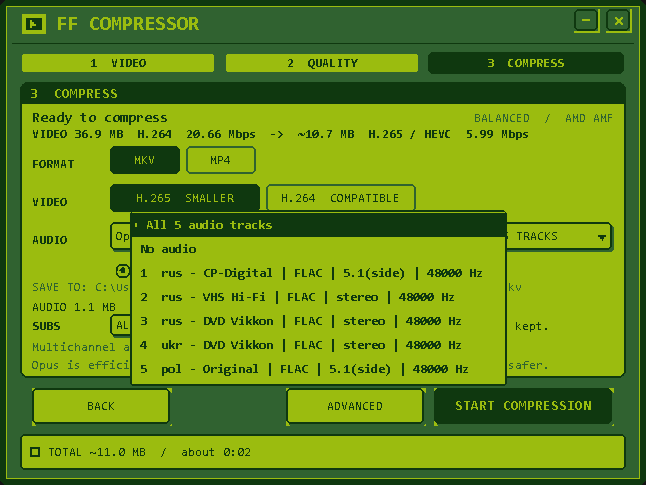
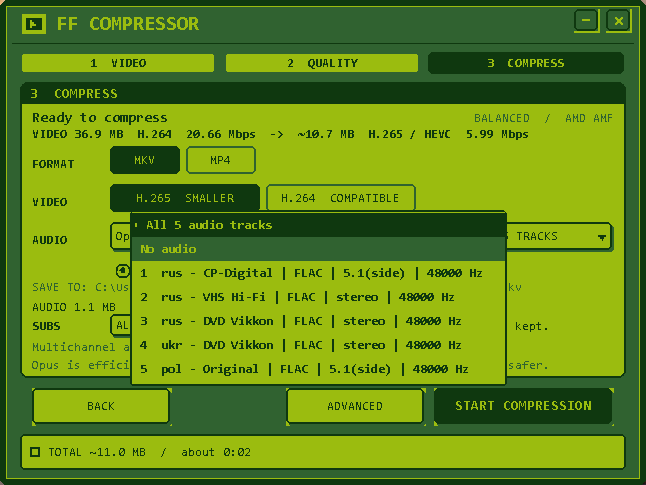
feat: add CPU/GPU encoder selector to quality presets

Changed region(s): [[0.1858, 0.4639, 0.805, 0.5567], [0.9907, 0.0, 1.0, 0.0309]]

diff --git a/src/ui.c b/src/ui.c
@@ -200,6 +200,11 @@ static int g_adv_enc_count = 0;
 static wchar_t g_adv_q_items[7][64];
 static int g_quality_show_details = 0;
 static int g_quality_deep = 0;
+static int g_quality_encoder = -1;
+static wchar_t g_quality_enc_items[HW_ENC_COUNT + 1][64];
+static int g_quality_enc_map[HW_ENC_COUNT + 1];
+static int g_quality_enc_count = 0;
+static RECT g_rc_q_encoder;
 static int g_custom_est_testing = 0;
 static int g_custom_est_ready = 0;
 static int g_custom_est_gen = 0;
@@ -1397,18 +1402,14 @@ static void draw_quality(HDC hdc)
                     DT_LEFT | DT_VCENTER | DT_SINGLELINE | DT_END_ELLIPSIS | DT_NOPREFIX);
             draw_chip(hdc, &g_rc_q_custom, text(STR_QUALITY_CUSTOM));
 
-            SetRect(&sr, S(32), S(306), S(490), S(322));
-            _snwprintf(buf, 512, text(STR_QUALITY_ENCODER_FMT), hw_encoder_name(enc));
-            if (g_est.used_fallback) {
-                wcscat(buf, L"  ");
-                wcscat(buf, text(STR_QUALITY_FALLBACK));
-            }
+            SetRect(&g_rc_q_encoder, S(32), S(306), S(390), S(326));
+            _snwprintf(buf, 512, text(STR_QUALITY_ENCODER_PICK_FMT),
+                       hw_encoder_name(enc));
             buf[511] = L'\0';
-            gb_text(hdc, g_fontSmall, GB_DARKEST, &sr, buf,
-                    DT_LEFT | DT_VCENTER | DT_SINGLELINE | DT_END_ELLIPSIS | DT_NOPREFIX);
+            draw_chip(hdc, &g_rc_q_encoder, buf);
             draw_chip(hdc, &g_rc_q_details, text(STR_QUALITY_DETAILS));
 
-            SetRect(&sr, S(32), S(322), S(614), S(340));
+            SetRect(&sr, S(32), S(326), S(614), S(342));
             if (sel && sel->available && sel->video_bps > 0.0 && src_video_bps > 0.0) {
                 wchar_t ssrc[64], sdst[64], brs[64], brd[64];
                 util_format_bytes((long long)src_video_bytes, ssrc, 64);
@@ -1422,7 +1423,7 @@ static void draw_quality(HDC hdc)
                 gb_text(hdc, g_fontSmall, GB_DARKEST, &sr, buf,
                         DT_LEFT | DT_VCENTER | DT_SINGLELINE | DT_END_ELLIPSIS | DT_NOPREFIX);
             }
-            SetRect(&sr, S(32), S(342), S(614), S(358));
+            SetRect(&sr, S(32), S(344), S(614), S(358));
             gb_text(hdc, g_fontSmall, GB_DARK, &sr, text(STR_QUALITY_COMPAT),
                     DT_LEFT | DT_VCENTER | DT_SINGLELINE | DT_END_ELLIPSIS | DT_NOPREFIX);
             SetRect(&sr, S(32), S(360), S(614), S(376));
@@ -2853,6 +2854,7 @@ typedef struct {
     HwInfo hw;
     int profile;
     int deep;
+    int encoder_override;
 } EstimateJob;
 
 static void quality_progress_cb(const EstimateProgress *p, void *user)
@@ -2880,7 +2882,8 @@ static DWORD WINAPI quality_thread_proc(LPVOID param)
     }
     msg->gen = job->gen;
     result = estimate_run(&job->src, &job->hw, job->profile, job->deep,
-                          &msg->est, quality_progress_cb, job, &g_est_cancel);
+                          job->encoder_override, &msg->est,
+                          quality_progress_cb, job, &g_est_cancel);
     msg->result = result;
     if (!PostMessageW(job->hwnd, WM_APP_EST_DONE, 0, (LPARAM)msg)) free(msg);
     free(job);
@@ -2911,7 +2914,8 @@ static void quality_ui_start(HWND hWnd, int force)
     g_est_start_tick = GetTickCount64();
     memset(&g_est, 0, sizeof(g_est));
     memset(&g_est_progress, 0, sizeof(g_est_progress));
-    g_est.encoder = estimate_choose_encoder(&g_info, &g_hw_info);
+    g_est.encoder = (g_quality_encoder >= 0) ? g_quality_encoder
+                                             : estimate_choose_encoder(&g_info, &g_hw_info);
     g_est_seconds = (g_quality_last_seconds > 0.0)
         ? (int)(g_quality_last_seconds + 0.5)
         : estimate_demo_seconds(&g_info, &g_hw_info, quality_current_profile());
@@ -2935,6 +2939,7 @@ static void quality_ui_start(HWND hWnd, int force)
     job->hw = g_hw_info;
     job->profile = quality_current_profile();
     job->deep = g_quality_deep;
+    job->encoder_override = g_quality_encoder;
     thread = CreateThread(NULL, 0, quality_thread_proc, job, 0, NULL);
     if (thread) {
         CloseHandle(thread);
@@ -2951,6 +2956,72 @@ static void quality_ui_start_deep(HWND hWnd)
     if (!g_has_info || g_quality_testing) return;
     g_quality_deep = 1;
     quality_ui_start(hWnd, 1);
+}
+
+static void quality_ui_refresh_encoder_items(void)
+{
+    int i;
+    g_quality_enc_count = 0;
+    g_quality_enc_map[g_quality_enc_count] = -1;
+    wcsncpy(g_quality_enc_items[g_quality_enc_count], text(STR_QUALITY_ENC_AUTO), 63);
+    g_quality_enc_items[g_quality_enc_count][63] = L'\0';
+    g_quality_enc_count++;
+
+    g_quality_enc_map[g_quality_enc_count] = HW_ENC_X265;
+    wcsncpy(g_quality_enc_items[g_quality_enc_count], text(STR_QUALITY_ENC_CPU), 63);
+    g_quality_enc_items[g_quality_enc_count][63] = L'\0';
+    g_quality_enc_count++;
+
+    for (i = 0; i < HW_ENC_COUNT && g_quality_enc_count < HW_ENC_COUNT + 1; i++) {
+        if (i == HW_ENC_X265) continue;
+        if (!g_hw_info.enc_ok8[i] && !g_hw_info.enc_ok10[i]) continue;
+        g_quality_enc_map[g_quality_enc_count] = i;
+        _snwprintf(g_quality_enc_items[g_quality_enc_count], 64,
+                   text(STR_QUALITY_ENC_GPU_FMT), hw_encoder_name(i));
+        g_quality_enc_items[g_quality_enc_count][63] = L'\0';
+        g_quality_enc_count++;
+    }
+    {
+        int found = 0;
+        for (i = 0; i < g_quality_enc_count; i++) {
+            if (g_quality_enc_map[i] == g_quality_encoder) { found = 1; break; }
+        }
+        if (!found) {
+            g_quality_encoder = -1;
+            if (g_enc_options_ready) g_enc_opt.encoder_override = -1;
+        }
+    }
+}
+
+static void quality_ui_encoder_picked(int index, void *user)
+{
+    (void)user;
+    if (index < 0 || index >= g_quality_enc_count) return;
+    g_quality_encoder = g_quality_enc_map[index];
+    if (!g_enc_options_ready) {
+        encode_options_defaults(&g_enc_opt, &g_info);
+        g_enc_options_ready = 1;
+    }
+    g_enc_opt.encoder_override = g_quality_encoder;
+    quality_ui_start(g_hWnd, 1);
+    update_controls_visibility();
+    InvalidateRect(g_hWnd, NULL, FALSE);
+}
+
+static void quality_ui_open_encoder_dropdown(HWND hWnd)
+{
+    const wchar_t *ptrs[HW_ENC_COUNT + 1];
+    RECT anchor;
+    int i, selected = 0;
+
+    quality_ui_refresh_encoder_items();
+    for (i = 0; i < g_quality_enc_count; i++) {
+        ptrs[i] = g_quality_enc_items[i];
+        if (g_quality_enc_map[i] == g_quality_encoder) selected = i;
+    }
+    anchor = g_rc_q_encoder;
+    gb_dropdown_open(hWnd, &anchor, ptrs, g_quality_enc_count, selected,
+                     quality_ui_encoder_picked, NULL);
 }
 
 static void quality_ui_on_done(HWND hWnd, EstimateDoneMsg *msg)
@@ -3049,6 +3120,10 @@ static void quality_select_at(HWND hWnd, int x, int y)
                 return;
             }
         } else {
+            if (PtInRect(&g_rc_q_encoder, pt)) {
+                quality_ui_open_encoder_dropdown(hWnd);
+                return;
+            }
             if (PtInRect(&g_rc_q_custom, pt)) {
                 encode_ui_open_advanced(hWnd);
                 return;
@@ -3066,7 +3141,7 @@ static void quality_select_at(HWND hWnd, int x, int y)
                 int level = g_est.levels_used[i];
                 g_quality_selected = level;
                 g_enc_opt.crf_override = 0;
-                g_enc_opt.encoder_override = -1;
+                g_enc_opt.encoder_override = g_quality_encoder;
                 g_custom_est_ready = 0;
                 quality_load_preview();
                 InvalidateRect(hWnd, NULL, FALSE);
@@ -3080,7 +3155,7 @@ static void quality_select_at(HWND hWnd, int x, int y)
             int level = g_est.levels_used[i];
             g_quality_selected = level;
             g_enc_opt.crf_override = 0;
-            g_enc_opt.encoder_override = -1;
+            g_enc_opt.encoder_override = g_quality_encoder;
             g_custom_est_ready = 0;
             InvalidateRect(hWnd, NULL, FALSE);
             return;
@@ -3099,6 +3174,7 @@ static void quality_ui_reset(void)
     memset(&g_est, 0, sizeof(g_est));
     memset(&g_est_progress, 0, sizeof(g_est_progress));
     g_quality_selected = QUALITY_BALANCED;
+    g_quality_encoder = -1;
     encode_ui_reset();
 }
 

diff --git a/src/estimate.c b/src/estimate.c
@@ -404,7 +404,8 @@ static void sample_positions(double duration, int clips, double clip_sec, double
 }
 
 EstimateResult estimate_run(const SourceInfo *src, const HwInfo *hw,
-                            int profile_override, int deep, EstimateSet *out,
+                            int profile_override, int deep, int forced_encoder,
+                            EstimateSet *out,
                             EstimateProgressCallback cb, void *user,
                             volatile int *cancel)
 {
@@ -437,7 +438,8 @@ EstimateResult estimate_run(const SourceInfo *src, const HwInfo *hw,
     out->clip_seconds = clip_sec;
     for (li = 0; li < level_count; li++) out->levels_used[li] = levels[li];
 
-    encoder = estimate_choose_encoder(src, hw);
+    encoder = (forced_encoder >= 0) ? forced_encoder
+                                    : estimate_choose_encoder(src, hw);
     out->encoder = encoder;
     make_temp_dir(tempdir, UTIL_PATH_MAX);
     sample_positions(src->duration, clips, clip_sec, positions);

diff --git a/src/strings.c b/src/strings.c
@@ -87,6 +87,10 @@ static const wchar_t *g_text[STR_COUNT] = {
     [STR_QUALITY_NO_ESTIMATE]   = L"No estimate yet.",
     [STR_QUALITY_SELECTED]      = L"SELECTED",
     [STR_QUALITY_ENCODER_FMT]   = L"Encoder: %ls",
+    [STR_QUALITY_ENCODER_PICK_FMT] = L"ENCODER: %ls  v",
+    [STR_QUALITY_ENC_AUTO]      = L"Auto (recommended)",
+    [STR_QUALITY_ENC_CPU]       = L"CPU x265 (software)",
+    [STR_QUALITY_ENC_GPU_FMT]   = L"%ls (GPU)",
     [STR_QUALITY_AUDIO_NOTE]    = L"Video-only sample estimate. Long/grainy films vary; use DEEP ANALYZE.",
     [STR_QUALITY_CANCELED]      = L"Test cancelled.",
     [STR_QUALITY_M5_NOTE]       = L"Full compression arrives in M5.",

diff --git a/src/estimate.h b/src/estimate.h
@@ -72,7 +72,8 @@ int estimate_demo_seconds(const SourceInfo *src, const HwInfo *hw, int profile_o
 int estimate_next_encoder(int current, int failed, int *fell_back);
 
 EstimateResult estimate_run(const SourceInfo *src, const HwInfo *hw,
-                            int profile_override, int deep, EstimateSet *out,
+                            int profile_override, int deep, int forced_encoder,
+                            EstimateSet *out,
                             EstimateProgressCallback cb, void *user,
                             volatile int *cancel);
 

diff --git a/tests/fallback_check.c b/tests/fallback_check.c
@@ -43,7 +43,7 @@ int wmain(int argc, wchar_t **argv)
     hw.speed8_median[HW_ENC_NVENC] = 10.0;
     hw.hdr_encoder = -1;
 
-    er = estimate_run(&src, &hw, HW_PROFILE_AUTO, 0, &est, progress, NULL, NULL);
+    er = estimate_run(&src, &hw, HW_PROFILE_AUTO, 0, -1, &est, progress, NULL, NULL);
     wprintf(L"result=%d encoder=%ls fallback=%d complete=%d\n",
             (int)er, hw_encoder_name(est.encoder), est.used_fallback, est.complete);
     if (er == ESTIMATE_OK && est.used_fallback && est.encoder == HW_ENC_X265) {

diff --git a/tests/estimate_check.c b/tests/estimate_check.c
@@ -66,7 +66,7 @@ int wmain(int argc, wchar_t **argv)
                 src.fps, src.display_width, src.display_height,
                 hw.speed8_median[hw.recommended]);
 
-        er = estimate_run(&src, &hw, HW_PROFILE_AUTO, 0, &est, quiet_progress, NULL, NULL);
+        er = estimate_run(&src, &hw, HW_PROFILE_AUTO, 0, -1, &est, quiet_progress, NULL, NULL);
         if (er != ESTIMATE_OK) {
             wprintf(L"ESTIMATE_FAIL file=%ls result=%d\n", src.file_name, (int)er);
             continue;

diff --git a/src/strings.h b/src/strings.h
@@ -91,6 +91,10 @@ typedef enum {
     STR_QUALITY_NO_ESTIMATE,
     STR_QUALITY_SELECTED,
     STR_QUALITY_ENCODER_FMT,
+    STR_QUALITY_ENCODER_PICK_FMT,
+    STR_QUALITY_ENC_AUTO,
+    STR_QUALITY_ENC_CPU,
+    STR_QUALITY_ENC_GPU_FMT,
     STR_QUALITY_AUDIO_NOTE,
     STR_QUALITY_CANCELED,
     STR_QUALITY_M5_NOTE,

diff --git a/README.md b/README.md
@@ -46,7 +46,10 @@ previous measured duration is shown.
 
 `DETAILS` shows the actual x265 CRF, QSV, NVENC and AMF value behind each preset.
 `DEEP ANALYZE` re-samples long/grainy films with 4 × 6s clips instead of 3 × 4s.
-The cards show video-only size; audio is added on the next screen.
+The cards show video-only size; audio is added on the next screen. The
+`ENCODER` chip switches between Auto, CPU x265 and any tested GPU encoder
+(Intel QSV, NVIDIA NVENC, AMD AMF); changing it re-runs the preset test with
+that encoder so the sizes and CRF/CQ/gq/QP values stay in sync.
 
 ![Preset details](docs/screenshots/m7-quality-details.png)
 

diff --git a/docs/screenshots/README.md b/docs/screenshots/README.md
@@ -70,5 +70,6 @@ The test screens are transient; the cards are the normal quality-step state.
 
 The tutorial images `02-quality.png` and `04-settings.png` were refreshed for
 the same build. The quality cards now show the active encoder's CRF/CQ/gq/QP
-value under every preset. They also show video-only source→target estimates;
-the compress screen adds the selected audio and the total.
+value under every preset, and the `ENCODER` chip can switch between Auto,
+CPU x265 and the tested GPU encoders. They also show video-only source→target
+estimates; the compress screen adds the selected audio and the total.
